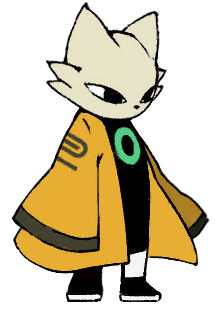
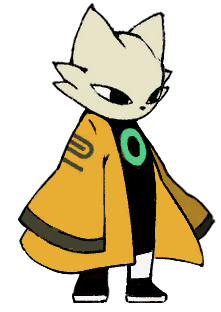
fix: 修复了内伤增加伤害的逻辑，避免多人游戏数据冲突 content: 更新了sprite动画，使其更加流畅

Changed region(s): [[0.0558, 0.0, 0.9767, 0.9871], [0.3907, 0.8419, 0.4465, 0.871]]

diff --git a/NineSolsModCode/Powers/InternalDamagePower.cs b/NineSolsModCode/Powers/InternalDamagePower.cs
@@ -12,41 +12,48 @@ namespace NineSolsMod.NineSolsModCode.Powers;
 
 public class InternalDamagePower : NineSolsModPower
 {
-    private decimal _effectiveAmount = 0m;
+    private class Data
+    {
+        public decimal effectiveAmount = 0m;
+    }
 
     public override PowerType Type => PowerType.Debuff;
     public override PowerStackType StackType => PowerStackType.Counter;
     public override Color AmountLabelColor => _normalAmountLabelColor;
+
+    protected override object? InitInternalData()
+    {
+        return new Data();
+    }
 
     protected override IEnumerable<DynamicVar> CanonicalVars =>
     [
         new DynamicVar("DamagePerAmount", 1m)
     ];
 
-    public override decimal ModifyHpLostAfterOsty(Creature target, decimal amount, ValueProp props, Creature? dealer,
-        CardModel? cardSource)
+    public override decimal ModifyDamageAdditive(Creature? target, decimal amount, ValueProp props, Creature? dealer, CardModel? cardSource)
     {
-        ArgumentNullException.ThrowIfNull(target);
-        if (target != base.Owner)
+        if (target != Owner)
         {
-            return amount;
+            return 0m;
         }
-        // TODO: 我们是否需要在乎这个？这个是说是否是任何伤害都可触发吗？
-        // if (!props.IsPoweredAttack())
-        // {
-        //     return 1m;
-        // }
-        var damagePerAmount = base.DynamicVars["DamagePerAmount"].BaseValue;
-        var internalDamageAmount = base.Amount;
-        _effectiveAmount = Math.Min(internalDamageAmount, amount);
-        return _effectiveAmount * damagePerAmount + amount;
+        var damagePerAmount = DynamicVars["DamagePerAmount"].BaseValue;
+        var internalDamageAmount = Amount;
+        GetInternalData<Data>().effectiveAmount = Math.Min(internalDamageAmount, amount);
+        return GetInternalData<Data>().effectiveAmount * damagePerAmount;
     }
 
-    public override async Task AfterModifyingHpLostAfterOsty()
+    public override async Task AfterDamageReceived(PlayerChoiceContext choiceContext, Creature target, DamageResult result, ValueProp props, Creature? dealer, CardModel? cardSource)
     {
-        // 受到攻击后，减去对应数量的层数，但好像不应该在这写
-        await PowerCmd.ModifyAmount(this, -_effectiveAmount, null, null);
-        _effectiveAmount = 0m;
+        if (target == Owner)
+        {
+            if (result.TotalDamage != 0)
+            {
+                Flash();
+                await PowerCmd.ModifyAmount(this, -GetInternalData<Data>().effectiveAmount, null, null);
+                GetInternalData<Data>().effectiveAmount = 0m;
+            }
+        }
     }
 
 }
